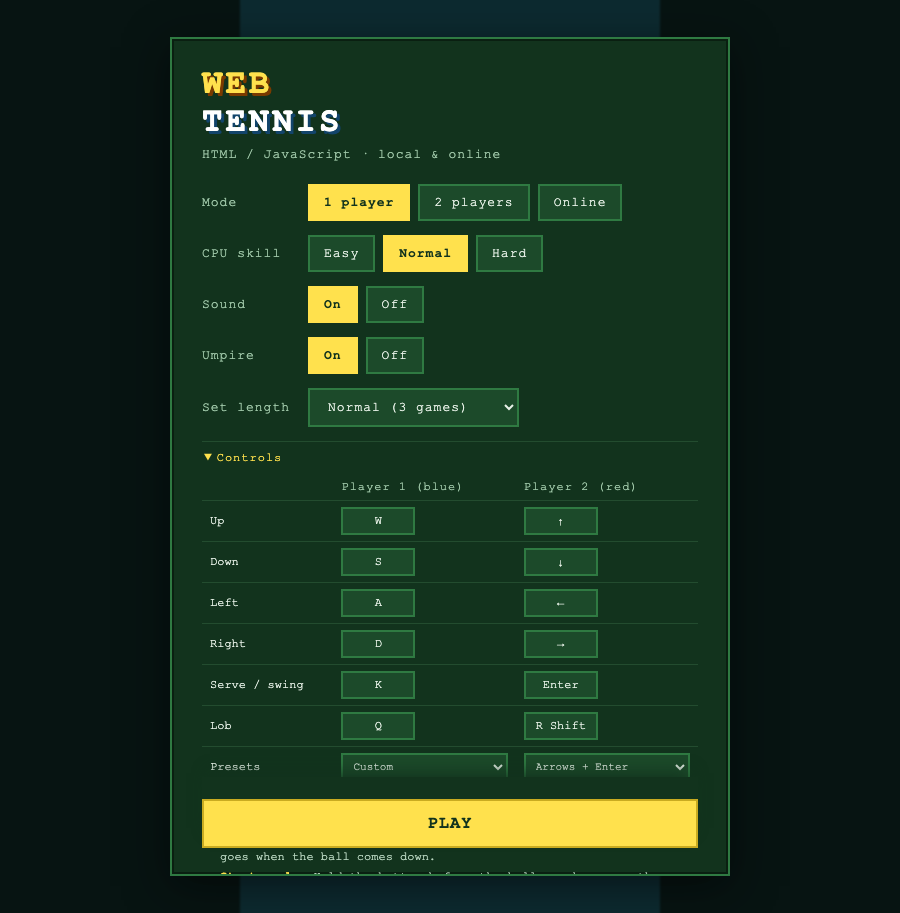
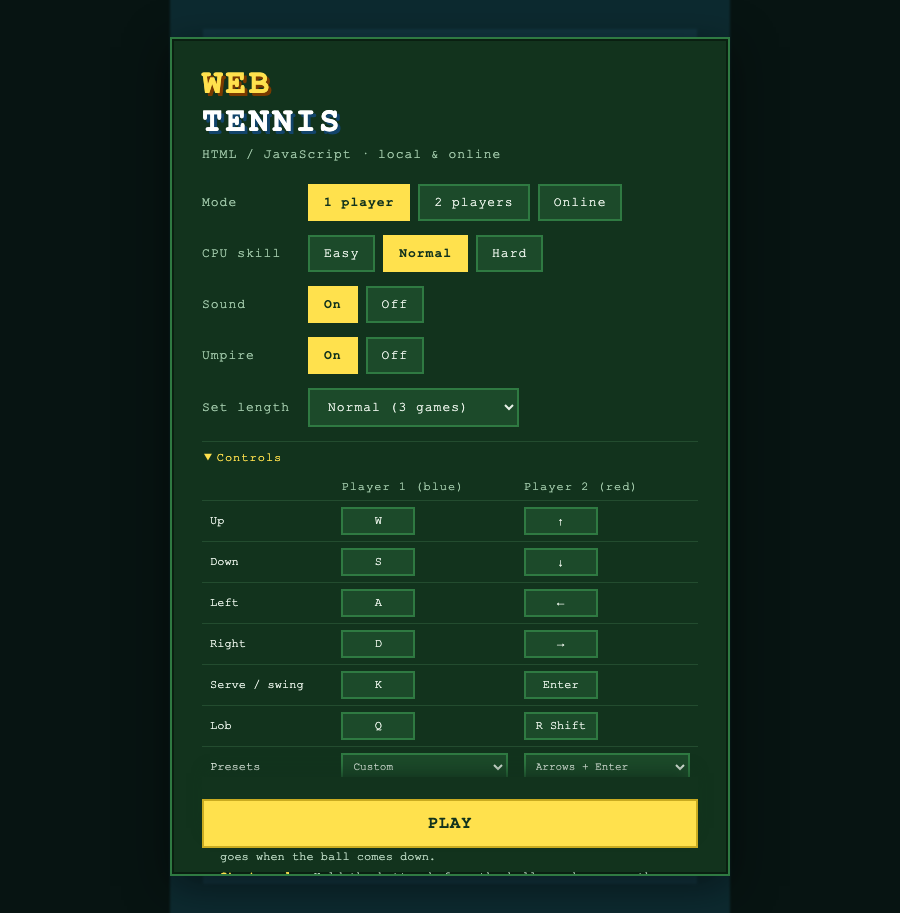
Shorter and wider, so there is something to run for
The court was the real shape, nearly three to one, and at that shape there
is time to walk to every ball: the width is the only thing you have to cover
in a hurry and there was not enough of it to cover. It is about two to one
now - a good deal wider, a good deal shorter - which is the arcade shape and
makes you choose which ball to go for.

The ball speeds came down with the length. Left alone, every shot arrived
sooner in a smaller court, which is a different game rather than a harder
one: one point in seven became an ace and the harder hitter beat himself,
with the ladder upside down. At the scaled speeds aces are back to one in
twenty and the levels are in order again.

The service box was worked out from a number written into state.js rather
than from the constant the court is drawn with, so reshaping the court left
the box the serve has to land in somewhere other than the line painted on
it. It reads the constant now.

Claude-Session: https://claude.ai/code/session_011quXB51tcyKJB2ftij4Rue

diff --git a/src/constants.js b/src/constants.js
@@ -14,9 +14,15 @@ export const TICK_RATE = 60;
 export const DT = 1 / TICK_RATE;
 export const FRAME_TIME = 1000 / TICK_RATE;
 
-// The court, in pixels, at the real ratio.
-export const COURT_W = 296; // singles width
-export const COURT_L = 854; // baseline to baseline
+// The court, in pixels.
+//
+// Not the real ratio. A singles court is nearly three times as long as it is
+// wide, and at that shape there is time to walk to every ball: the width is the
+// only thing you have to cover in a hurry, and there was not enough of it to
+// cover. Shorter and wider - about two to one - is the arcade shape, and it is
+// what makes you choose which ball to go for.
+export const COURT_W = 372; // singles width
+export const COURT_L = 700; // baseline to baseline
 export const ALLEY = 44; // the doubles tramlines, drawn but not played
 export const RUNOFF = 130; // room behind the baseline to chase a deep ball
 
@@ -32,8 +38,8 @@ export const COURT = {
   cy: RUNOFF + COURT_L / 2,
 };
 
-/** The service line, this far from the net. Real ratio: 6.4 m of 11.885 m. */
-export const SERVICE_D = 230;
+/** The service line, this far from the net: the same share of the half as a real one. */
+export const SERVICE_D = 190;
 
 /** How high the net is, in the same units the ball's height uses. */
 export const NET_H = 26;
@@ -91,8 +97,13 @@ export const RUSHED_SCATTER = 0.55;
 
 /** How long the swing stays open after you let go, if the ball is not there yet. */
 export const SWING_WINDOW = 22;
-export const SHOT_MIN = 520; // a blocked return
-export const SHOT_MAX = 900; // a full drive
+// Scaled with the court when it was shortened. Leaving them alone made every
+// ball arrive sooner in the same number of pixels of court, which is a different
+// game: serves became unreturnable (one point in seven was an ace) and the
+// harder hitter beat himself. The court is wider to make you run; it is not
+// meant to be faster as well.
+export const SHOT_MIN = 430;
+export const SHOT_MAX = 740;
 
 /**
  * What the last part of the wind-up costs.
@@ -111,8 +122,8 @@ export const LOB_CHARGE = 16; // hold past this and it goes up instead of throug
 // Measured against how often a serve goes unreturned: at 620-1020 nearly two
 // points in five were aces, which is not tennis. This lands at about one in
 // eleven, with rallies of three or four shots.
-export const SERVE_MIN = 520;
-export const SERVE_MAX = 820;
+export const SERVE_MIN = 430;
+export const SERVE_MAX = 675;
 // The toss has to be up long enough to hit on the way down, and the window has
 // to outlast the flight: at 190 high and 70 ticks the ball was still above
 // hitting height when the toss timed out, so a human could never serve at all -

diff --git a/src/game/state.js b/src/game/state.js
@@ -10,6 +10,7 @@
 
 import {
   AI_LEVELS, COURT, GAMES_TO_WIN, POINT_NAMES, PLAYER_PRESETS, SERVE_READY_TICKS,
+  SERVICE_D,
 } from '../constants.js';
 
 export function createMatch(options = {}) {
@@ -121,8 +122,11 @@ export function serviceBox(state) {
   // Diagonally: serving from the right hand court means aiming at the receiver's
   // right hand box, which is on the other side of the centre line from us.
   const towardsTop = server.dir > 0;
-  const y0 = towardsTop ? COURT.cy - 230 : COURT.cy;
-  const y1 = towardsTop ? COURT.cy : COURT.cy + 230;
+  // Taken from the constant rather than written out again: the two had drifted
+  // apart the moment the court changed size, which would have left the box the
+  // serve has to land in somewhere other than the line drawn on the court.
+  const y0 = towardsTop ? COURT.cy - SERVICE_D : COURT.cy;
+  const y1 = towardsTop ? COURT.cy : COURT.cy + SERVICE_D;
   const leftHalf = right === (server.dir > 0);
   return {
     x0: leftHalf ? COURT.left : COURT.cx,

diff --git a/README.md b/README.md
@@ -74,7 +74,15 @@ packages to install.
   way to play. Nothing asks you to turn the phone sideways - a tennis court is
   taller than it is wide.
 
-The rules are the real ones, because they are what makes tennis tennis: the ball
+The court is not the real shape. A singles court is nearly three times as long as
+it is wide, and at that shape there is time to stroll to every ball - the width is
+the only thing you have to cover in a hurry and there was not enough of it. This
+one is about two to one: shorter, wider, and it makes you choose which ball to go
+for. The ball speeds came down with the length, or the same shot would simply
+arrive sooner in a smaller court, which is a different game again - at the old
+speeds one point in seven was an ace.
+
+The rules themselves are the real ones, because they are what makes tennis tennis: the ball
 has to land in, it may bounce once, a serve has to find the diagonal box, and the
 score runs fifteen, thirty, forty, deuce, advantage. A set is won by two clear
 games, and the score goes up in the middle of the screen after every point, in
